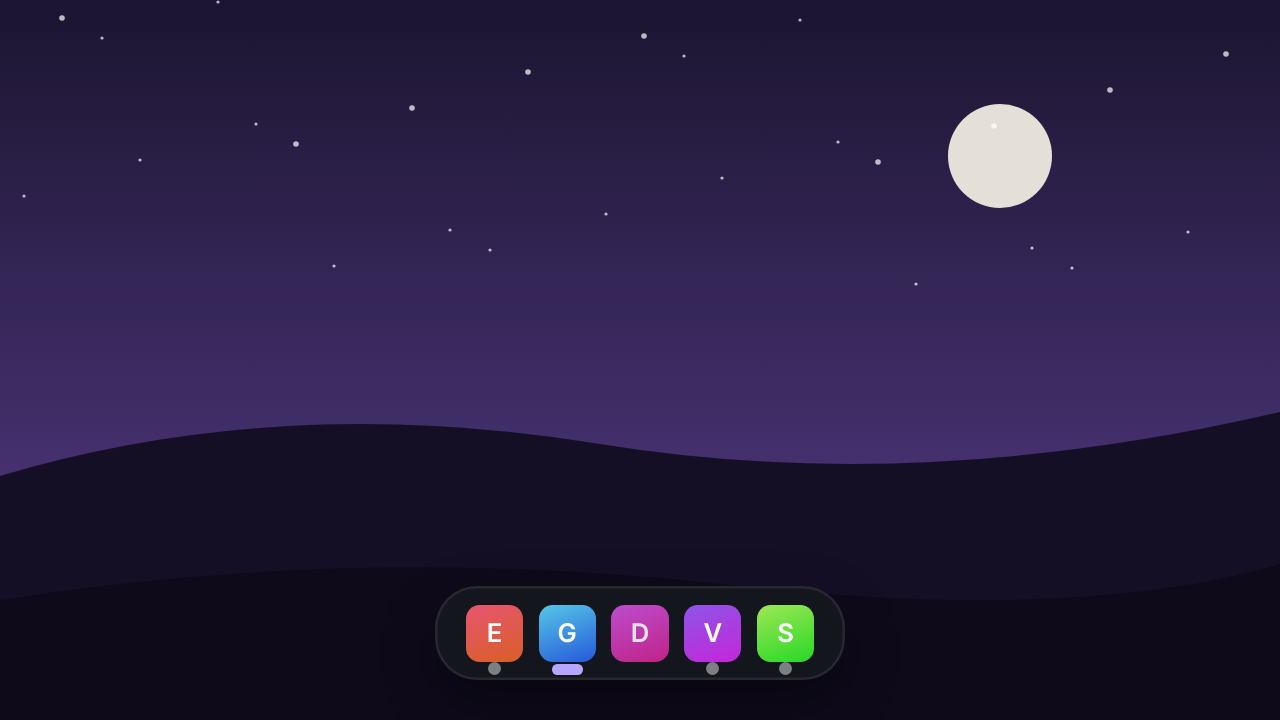
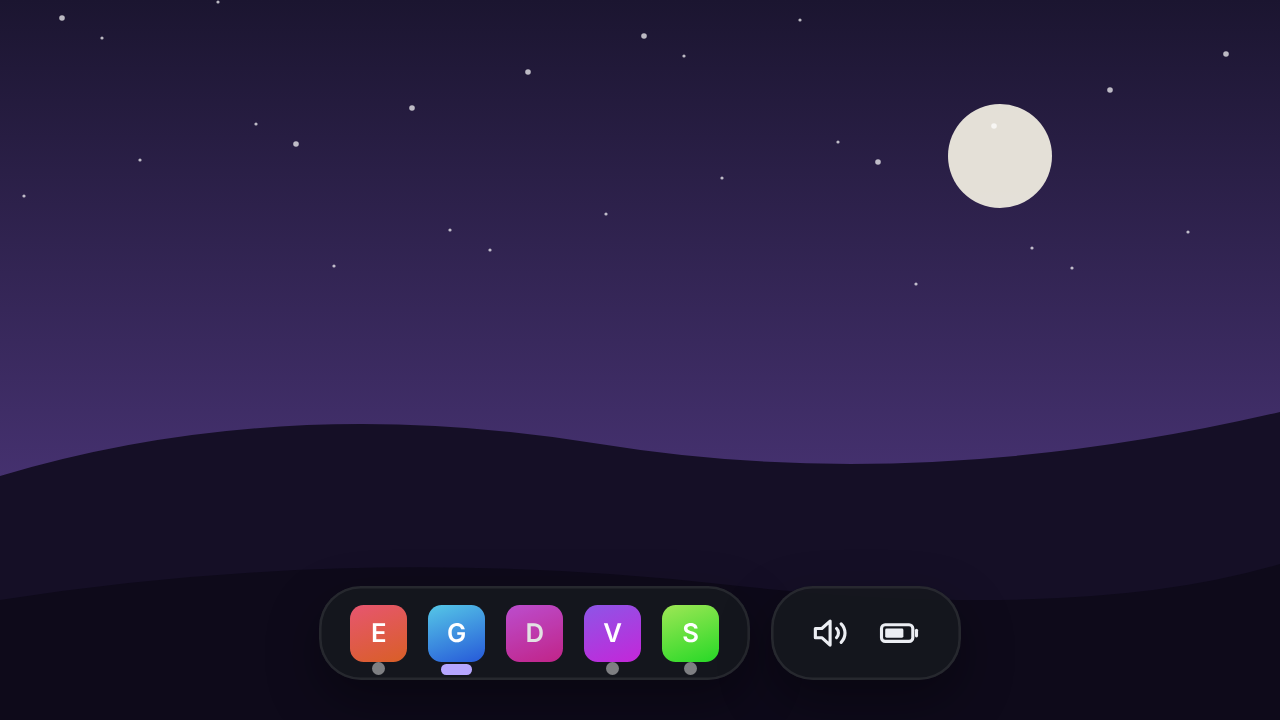
feat: padrão de módulos (--df-modules, data-modules, .df-module) e Segmentada com módulos separados
Claude-Session: https://claude.ai/code/session_01KjRpep8Kxb6eSvU3Jma5so

Changed region(s): [[0.25, 0.825, 0.6562, 0.9472], [0.6875, 0.8556, 0.7188, 0.9167]]

diff --git a/themes/segmentada/styles.css b/themes/segmentada/styles.css
@@ -1,12 +1,15 @@
-/* Segmentada — the dock is split into blocks: one for the apps, one for each widget. */
+/* Segmentada — on a floating dock the modules split out: the apps sit in one rounded block
+   and each module in its own, with gaps between them. On a bar or an island they stay inside. */
 
 .df-dock {
+  --df-modules: detached;
+  --df-module-gap: 8px;
   --df-gap: 8px;
-  --df-padding: 0;
-  --df-radius: 0;
-  --df-bg: transparent;
+  --df-padding: 7px;
+  --df-radius: 16px;
+  --df-bg: rgba(22, 24, 30, 0.88);
   --df-border: 0;
-  --df-shadow: none;
+  --df-shadow: inset 0 0 0 1px rgba(255, 255, 255, 0.08), 0 8px 20px rgba(0, 0, 0, 0.35);
   --df-hover-lift: -4px;
   --df-indicator-color: rgba(255, 255, 255, 0.45);
   --df-indicator-active-color: #b6a6ff;
@@ -14,39 +17,10 @@
   --df-tooltip-bg: #23252d;
   --df-tooltip-color: #ffffff;
   --df-separator-color: rgba(255, 255, 255, 0.14);
-  --df-widget-bg: rgba(22, 24, 30, 0.88);
+  --df-widget-bg: rgba(255, 255, 255, 0.06);
   --df-widget-color: #eceef3;
-  --segment-shadow: inset 0 0 0 1px rgba(255, 255, 255, 0.08), 0 8px 20px rgba(0, 0, 0, 0.35);
 }
-.df-dock[data-layout="bar"] { padding: 6px 10px; }
-
-.df-apps {
-  display: flex;
-  align-items: center;
-  gap: 6px;
-  padding: 7px 12px;
-  border-radius: 16px;
-  background: var(--df-widget-bg);
-  box-shadow: var(--segment-shadow);
-}
-.df-dock[data-position="left"] .df-apps,
-.df-dock[data-position="right"] .df-apps {
-  flex-direction: column;
-  padding: 12px 7px;
-}
-.df-widget {
-  border-radius: 16px;
-  box-shadow: var(--segment-shadow);
-  min-height: calc(var(--df-icon-size) + 14px);
-  box-sizing: border-box;
-}
-.df-island-now {
-  border-radius: 16px;
-  background: var(--df-widget-bg);
-  box-shadow: var(--segment-shadow);
-  padding: 7px 8px;
-  box-sizing: content-box;
-}
+.df-dock[data-modules="detached"] > .df-apps { padding: 7px 12px; }
 
 .df-item.is-running .df-indicator { width: 5px; height: 5px; }
 .df-item.is-active .df-indicator { width: 12px; height: 4px; border-radius: 2px; }

diff --git a/THEMING.md b/THEMING.md
@@ -42,6 +42,8 @@ Most themes only change variables on `.df-dock`. Every variable has a default, s
 | `--df-separator-color` | white 18% | Line between pinned and open apps, and the group dots |
 | `--df-widget-bg` | white 7% | Background of widgets (now playing) |
 | `--df-widget-color` | same as tooltip text | Text of widgets (now playing, clock) |
+| `--df-modules` | `inline` | `detached` asks for split modules on a floating dock: the apps and each module get their own block. Bars and islands always keep them inside |
+| `--df-module-gap` | `10px` | Space between the blocks when modules are split |
 
 People can also change the icon size, the hover zoom, the accent color, the corners and the
 opacity in the settings window. Those choices are applied on top of your theme, so build it with
@@ -76,9 +78,22 @@ variables (as above) and it will keep working when someone tweaks it.
       <span class="df-meter-text"><span class="df-meter-label">CPU</span><span class="df-meter-value">23%</span></span>
     </span> …
   </div>
-  <div class="df-widget df-clock"><span class="df-clock-time"></span><span class="df-clock-date"></span></div>
+  <button class="df-widget df-module df-pomo">…</button>          <!-- pomodoro -->
+  <div class="df-widget df-module df-clock df-world">…</div>     <!-- the time in another city -->
+  <button class="df-widget df-module df-quick">                  <!-- quick panel: speakers, battery -->
+    <svg>…</svg> <svg class="df-quick-battery">…</svg>
+  </button>
+  <div class="df-widget df-module df-clock"><span class="df-clock-time"></span><span class="df-clock-date"></span></div>
 </div>
 ```
+
+Every block after the apps is a module: it has the classes `df-widget df-module` and a
+`data-module` attribute (`media`, `system`, `pomodoro`, `world`, `quick`, `clock`), always in that
+order. Style `.df-module` once and every module follows.
+
+- `data-modules`: `inline` (modules inside the dock) or `detached` (the dock has no surface; the
+  apps and each module carry `--df-bg`, `--df-border`, `--df-shadow` and `--df-radius`). A theme
+  asks for `detached` with `--df-modules: detached`; the user can override it on floating docks.
 
 - `.is-running`: the app has at least one open window.
 - `.is-active`: the app was in front before you clicked the dock.
